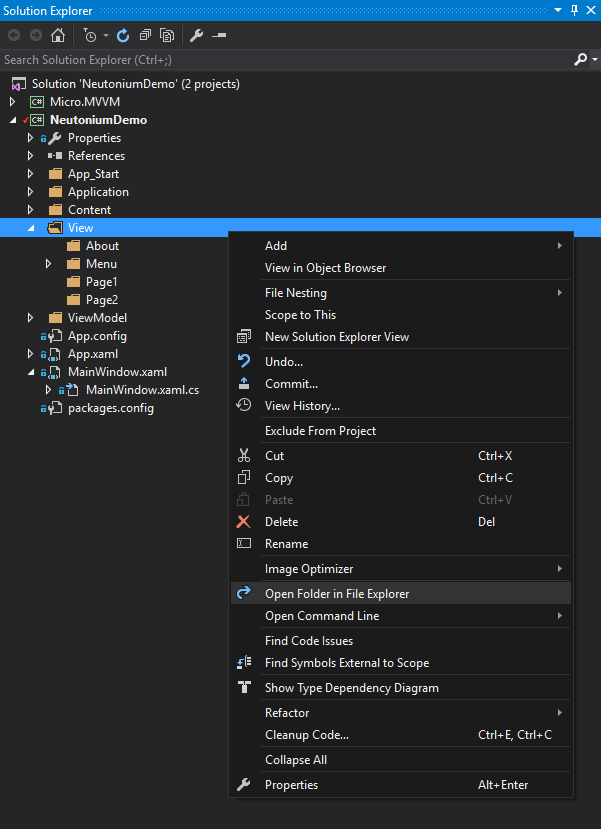
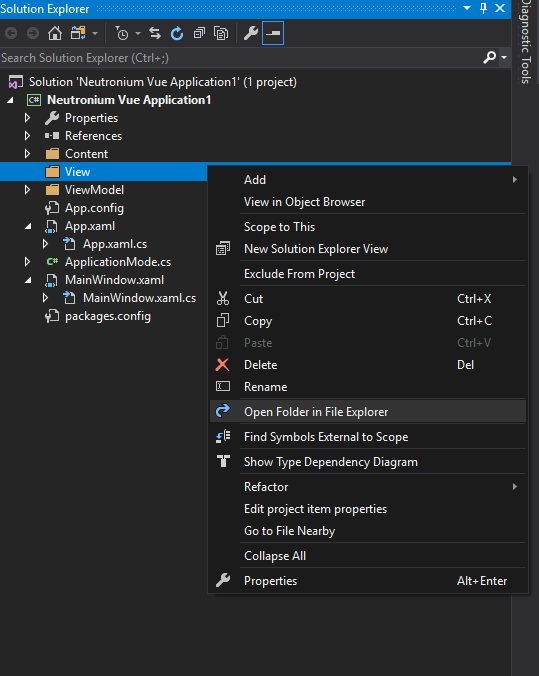
Update documentation

diff --git a/Documentation/Content/Build_large_project_with_Vue.js_and_Webpack.md b/Documentation/Content/Build_large_project_with_Vue.js_and_Webpack.md
@@ -19,18 +19,24 @@ $ npm install -g vue-cli
 
 Then in the view folder create your project 
 ``` bash
-$ vue init NeutroniumCore/neutronium-vue view1
-$ cd view1
+$ vue create main
+$ cd main
+$ vue add NeutroniumCore/vue-cli-plugin-neutronium
 $ npm install
-$ npm run dev
+$ npm run serve
 ```
 
 ## npm scripts
 
 ```bash
-npm run dev
+npm run serve
 ```
-Debug your view in the browser. MainView model data are provided by json file: data\data.json
+Debug your view in the browser. Main view model data are provided by cjson (circular JSON) file: data\vm.cjson
+
+```bash
+npm run live
+```
+Serve locally view that can be used in live reload setting with Neutronium.
 
 ```bash
 npm run build
@@ -43,34 +49,49 @@ Generate files ready to be used in Neutronium in the dist folder: you have to re
 <img src="../images/webpack_01.png" height="550px"><br>
 2. Install template
 ``` bash
-$ vue init David-Desmaisons/neutronium-vue about
+$ vue create main
 ```
-<img src="../images/webpack_02.png" height="550px"><br>
-3. npm install
+![](../images/webpack_02a.png)
+![](../images/webpack_02b.png)
+
 ``` bash
-$ cd about
-$ npm install
+$ cd main
+$ vue add neutronium
 ```
-<img src="../images/webpack_03.png"><br>
+![](../images/webpack_02d.png)
+
+Choose the correct options:
+
+![](../images/webpack_02f.png)
+
 4. Begin developing the view using hot-reload (you may use atom or sublime to edit js files)
 ``` bash
-$ npm run dev
+$ npm install
+$ npm run serve
 ```
-<img src="../images/webpack_05.png"><br>
+![](../images/webpack_05.png)
+
 5. Once the view is ready build the files
 ``` bash
 $ npm run build
 ```
-<img src="../images/webpack_06.png" height="550px"><br>
+![](../images/webpack_06.png)
+
 6. Include the files in VD<br>
 * Click show all files<br>
-<img src="../images/webpack_07.png" height="250px"><br>
-<img src="../images/webpack_08.png" height="550px"><br>
+![](../images/webpack_07.png)<br><br>
+![](../images/webpack_08.png)<br>
+
 * Include the files in project: DO NOT INCLUDE files under node_modules<br>
-<img src="../images/webpack_09.png" height="550px"><br>
-<img src="../images/webpack_10.png" height="550px"><br>
-* Set Properties on dist files: Content/Copy Always<br>
-<img src="../images/webpack_11.png" height="550px"><br>
+![](../images/webpack_09.png)<br><br>
+![](../images/webpack_10.png)<br>
+
+* Set Properties on dist files: 
+  - Build Action: `Resource`
+  - Copy To Folder: `None`<br>
+  - `.legacy.` files in dist folder don't need to be included in the project<br><br>
+![](../images/webpack_11.png)<br>
+
 7. Run C# application<br>
 <img src="../images/webpack_12.png" ><br>
 
@@ -90,8 +111,8 @@ $ npm run build
 ├── index.hml
 ``` 
 
-`Data`: contains the data.json which is the viewmodel data used during development in the browser.
-`Dist`: contains generated files to be used in Neutronium
+`Data`: contains the vm.cjson which is the viewmodel data used during development in the browser.
+`dist`: contains generated files to be used in Neutronium
 `src`: contains assets (folder assets), vue components (folder components), main component: App.vue.
 You should not edit `entry.js` nor `main.js` which are boilerplate files needed for the dev and production build.
 Both index.html files (fromm root and dist) should not be edited for the same reason.
@@ -153,7 +174,7 @@ export {
 
 You can generate a Json from viewModel captured in a Neutronium debug session using [Neutronium debug tools](./Debug.md) and use it as data.json in order to create the view with a realistic ViewModel. 
 
-![SaveVM](../images/Tools/Toolbar-save.png)
+![SaveVM](../images/Tools/ContextMenu-Save-vm.png)
 
 ### [Additional vue.js components](./Using_aditional_dedicated_vue.js_component.md)
 
